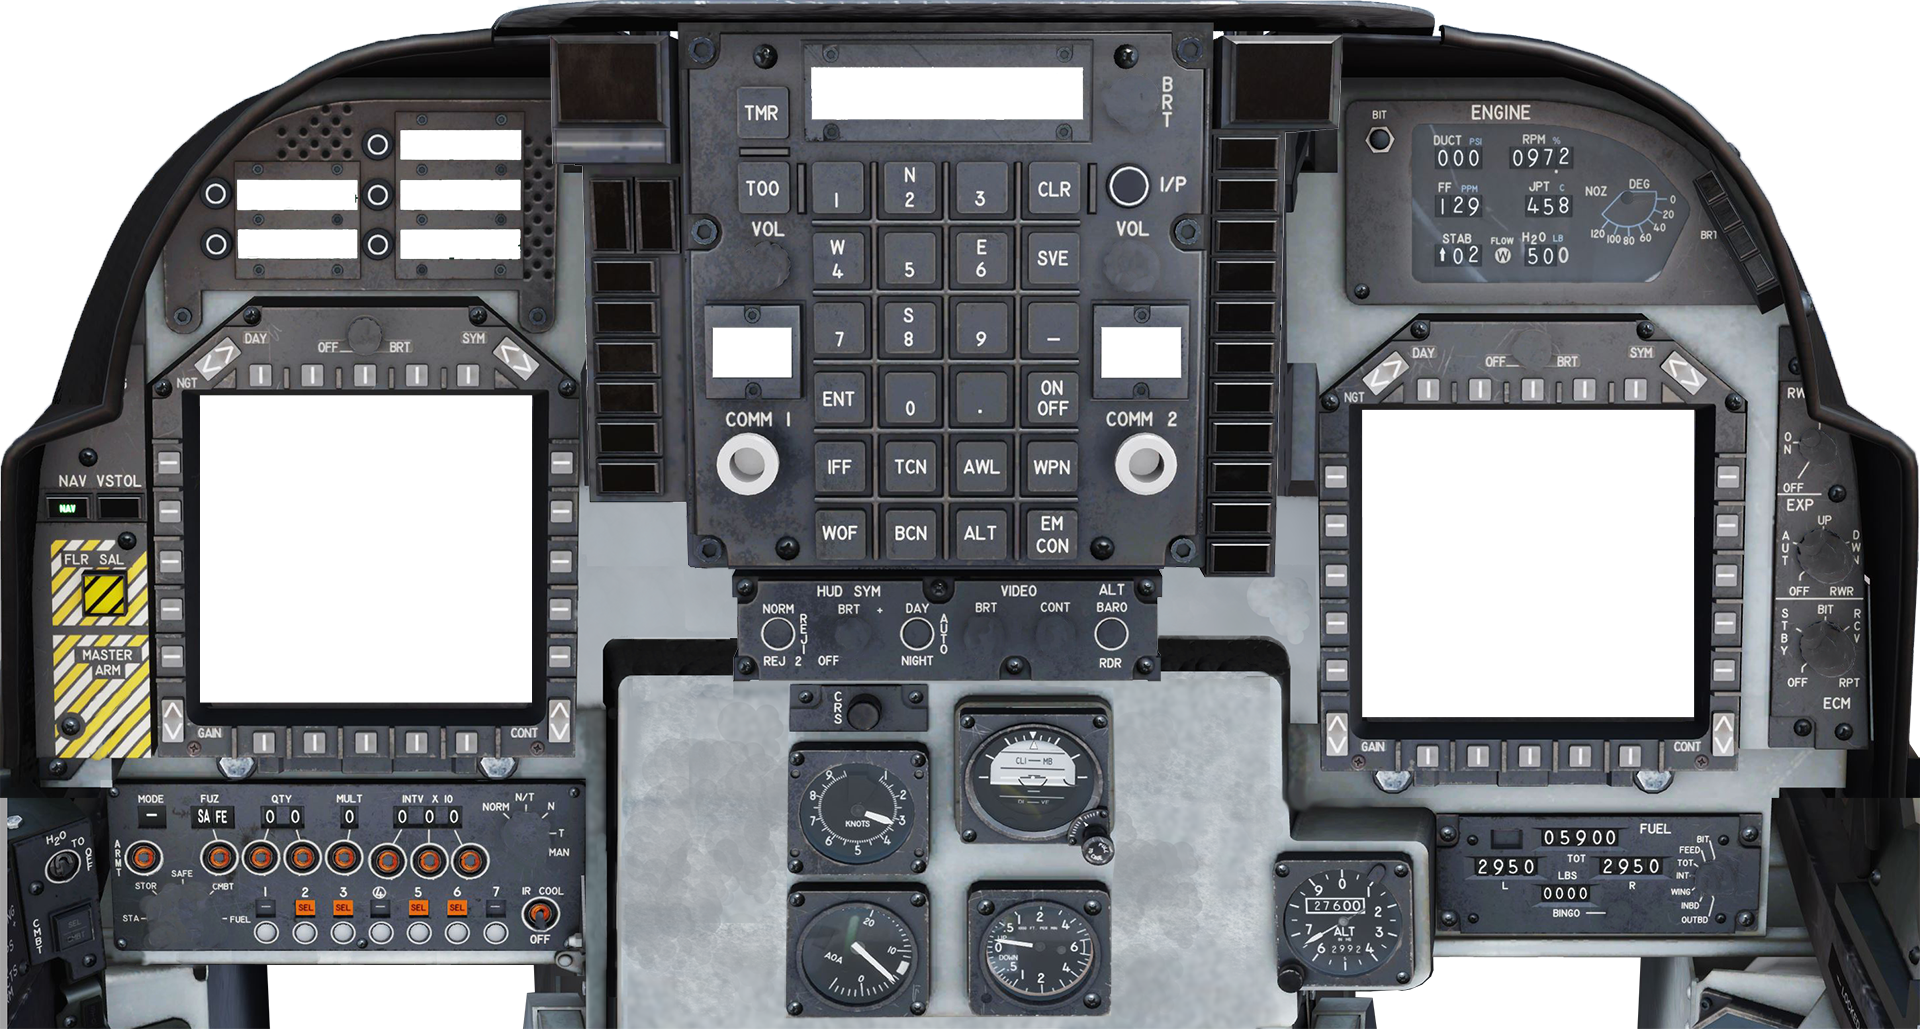
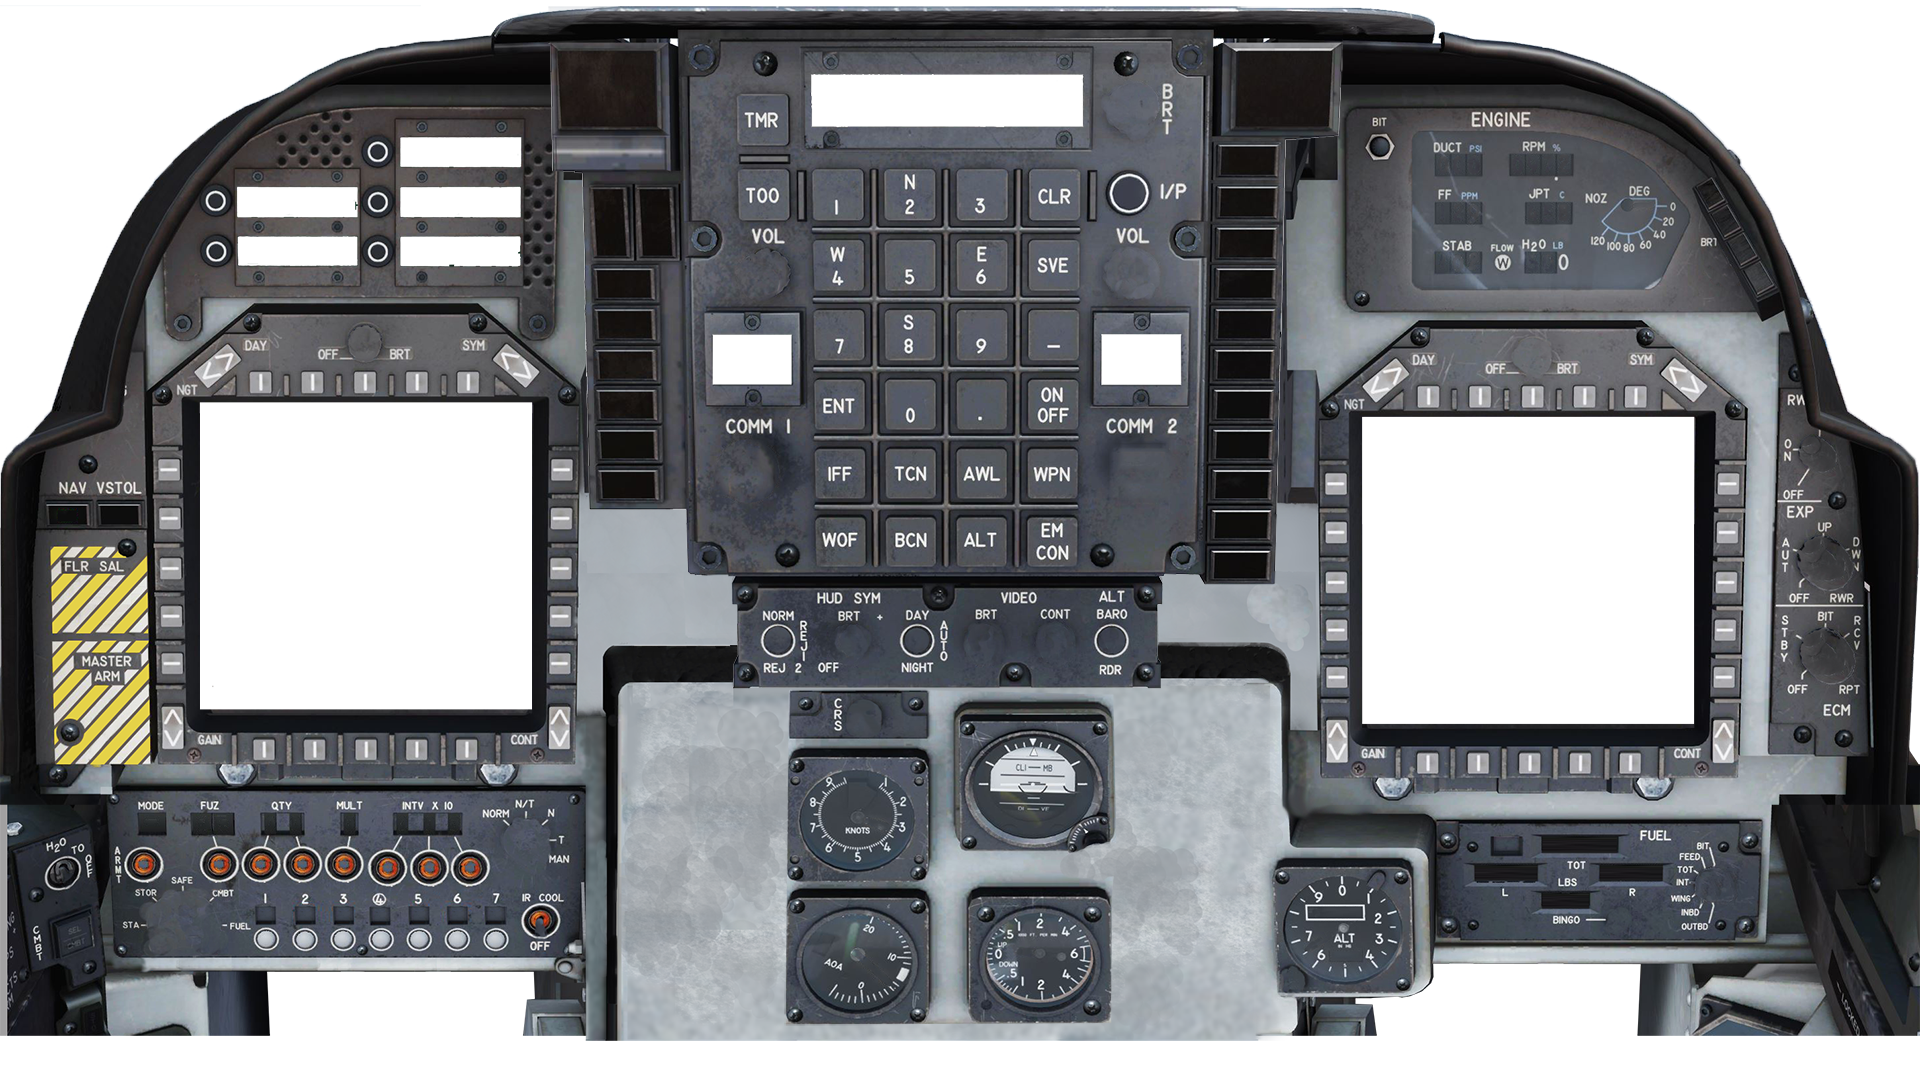
Further work on the front panel controls and knobs
Main flight controls with the exception of the ADI are complete,
although the altimeter looks like an A-10C.  Most of the front buttons
are implemented but not tested.

diff --git a/Helios/Interfaces/DCS/AV-8B/AV8BInterface.cs b/Helios/Interfaces/DCS/AV-8B/AV8BInterface.cs
@@ -182,6 +182,7 @@ namespace GadrocsWorkshop.Helios.Interfaces.DCS.AV8B
             AddFunction(new PushButton(this, MPCD_LEFT, "3217", "3217", "Left MFCD", "OSB18", "1", "0", "%1d"));
             AddFunction(new PushButton(this, MPCD_LEFT, "3218", "3218", "Left MFCD", "OSB19", "1", "0", "%1d"));
             AddFunction(new PushButton(this, MPCD_LEFT, "3219", "3219", "Left MFCD", "OSB20", "1", "0", "%1d"));
+            AddFunction(new Axis(this, MPCD_LEFT, "3194", "3194", 0.1d, 0d, 1d, "Left MFCD", "Off/Brightness Control"));
             #endregion
 
             #region Right MCFD
@@ -205,6 +206,8 @@ namespace GadrocsWorkshop.Helios.Interfaces.DCS.AV8B
             AddFunction(new PushButton(this, MPCD_RIGHT, "3241", "3241", "Right MFCD", "OSB18"));
             AddFunction(new PushButton(this, MPCD_RIGHT, "3242", "3242", "Right MFCD", "OSB19"));
             AddFunction(new PushButton(this, MPCD_RIGHT, "3243", "3243", "Right MFCD", "OSB20"));
+            AddFunction(new Axis(this, MPCD_RIGHT, "3195", "3195", 0.1d, 0d, 1d, "Right MFCD", "Off/Brightness Control"));
+
             #endregion
 
             #region UFC
@@ -239,9 +242,22 @@ namespace GadrocsWorkshop.Helios.Interfaces.DCS.AV8B
             AddFunction(new FlagValue(this, "196", "Caution/Warning", "Master Caution", "Master Caution indicator"));
             AddFunction(new PushButton(this, LTWCA, "3199", "3199", "Caution/Warning", "Master Warning Button"));
             AddFunction(new FlagValue(this, "197", "Caution/Warning", "Master Warning", "Master warning indicator"));
+            AddFunction(new Axis(this, UFCCONTROL, "3295", "3295", 0.1d, 0d, 1d, "UFC", "Display Brightness"));
+            AddFunction(new Axis(this, UFCCONTROL, "3298", "3298", 0.1d, 0d, 1d, "UFC", "Comm 1 Volume"));
+            AddFunction(new Axis(this, UFCCONTROL, "3299", "3299", 0.1d, 0d, 1d, "UFC", "Comm 2 Volume"));
+            AddFunction(new Axis(this, UFCCONTROL, "3300", "3300", 0.1d, 0d, 1d, "UFC", "Comm 1 Channel selector"));
+            AddFunction(new Axis(this, UFCCONTROL, "3301", "3301", 0.1d, 0d, 1d, "UFC", "Comm 2 Channel selector"));
+
             //       public IndicatorPushButton(BaseUDPInterface sourceInterface, string deviceId, string buttonId, string argId, string device, string name)
             //       public FlagValue(BaseUDPInterface sourceInterface, string id, string device, string name, string description)
             //       public PushButton(BaseUDPInterface sourceInterface, string deviceId, string buttonId, string argId, string device, string name)
+            AddFunction(Switch.CreateThreeWaySwitch(this, HUDCONTROL, "3288", "3288", "1", "Norm", "0", "Reject 1", "-1", "Reject 2", "HUD Control", "Declutter switch", "%1d"));
+            AddFunction(new Axis(this, HUDCONTROL, "3289", "3289", 0.1d, 0d, 1d, "HUD Control", "Off/Brightness control"));
+            AddFunction(Switch.CreateThreeWaySwitch(this, HUDCONTROL, "3290", "3290", "1", "Day", "0", "Auto", "-1", "Night", "HUD Control", "Display Mode switch", "%1d"));
+            AddFunction(new Axis(this, HUDCONTROL, "3291", "3291", 0.1d, 0d, 1d, "HUD Control", "Video Brightness"));
+            AddFunction(new Axis(this, HUDCONTROL, "3292", "3292", 0.1d, 0d, 1d, "HUD Control", "Video Contrast"));
+            AddFunction(Switch.CreateToggleSwitch(this, HUDCONTROL, "3293", "3293", "1", "Baro", "0", "Rdr", "HUD Control", "Altimeter Mode Switch", "%1d"));
+
             #endregion
 
             #region Master Modes
@@ -299,7 +315,7 @@ namespace GadrocsWorkshop.Helios.Interfaces.DCS.AV8B
 
             #region Fuel Quantity Indicator System
             AddFunction(new Axis(this, FQIS, "3380", "3380", 0.05d, 0.15d, 0.85d, "Fuel Quantity", "Bingo Fuel Set Knob"));
-            AddFunction(new Switch(this, FQIS, "3379", new SwitchPosition[] { new SwitchPosition("-0.99", "BIT", "3395"), new SwitchPosition("-0.66", "FEED", "3395"), new SwitchPosition("-0.33", "TOTAL", "3395"), new SwitchPosition("0.0", "INT", "3395"), new SwitchPosition("0.33", "WING", "3395"), new SwitchPosition("0.66", "INBD", "3395"), new SwitchPosition("0.99", "OUTBD", "3395") }, "Fuel Quantity", "Fuel Totaliser Selector", "%0.1f"));
+            AddFunction(new Switch(this, FQIS, "3379", new SwitchPosition[] { new SwitchPosition("0.99", "OUTBD", "3395"), new SwitchPosition( "0.66", "INBD", "3395"), new SwitchPosition("0.33", "WING", "3395"), new SwitchPosition("0.0", "INT", "3395"), new SwitchPosition("-0.33", "TOTAL", "3395"), new SwitchPosition("-0.66", "FEED", "3395"), new SwitchPosition("-0.99", "BIT", "3395") }, "Fuel Quantity", "Fuel Totaliser Selector", "%0.1f"));
 
             #endregion
 
@@ -376,15 +392,15 @@ namespace GadrocsWorkshop.Helios.Interfaces.DCS.AV8B
 
             #region Stores Management Controller
             AddFunction(Switch.CreateToggleSwitch(this, SMC, "3287", "3287", "1", "Armed", "0", "Safe", "Stores Management", "Master Arm Switch", "%1d"));
-            AddFunction(Switch.CreateThreeWaySwitch(this, SMC, "3396", "3396", "-1", "dn", "0", "Off", "1", "Up", "Stores Management", "Armament Mode control", "%1d"));
-            AddFunction(Switch.CreateThreeWaySwitch(this, SMC, "3397", "3397", "-1", "decrease", "0", "Off", "1", "Increase", "Stores Management", "Armament Fuzing control", "%1d"));
-            AddFunction(Switch.CreateThreeWaySwitch(this, SMC, "3398", "3398", "-1", "decrease", "0", "Off", "1", "Increase", "Stores Management", "Armament Quantity Tens", "%1d"));
-            AddFunction(Switch.CreateThreeWaySwitch(this, SMC, "3399", "3399", "-1", "decrease", "0", "Off", "1", "Increase", "Stores Management", "Armament Quantity Units", "%1d"));
-            AddFunction(Switch.CreateThreeWaySwitch(this, SMC, "3400", "3400", "-1", "decrease", "0", "Off", "1", "Increase", "Stores Management", "Armament Multiple Release", "%1d"));
-            AddFunction(Switch.CreateThreeWaySwitch(this, SMC, "3401", "3401", "-1", "decrease", "0", "Off", "1", "Increase", "Stores Management", "Armament Release interval hundreds", "%1d"));
-            AddFunction(Switch.CreateThreeWaySwitch(this, SMC, "3402", "3402", "-1", "decrease", "0", "Off", "1", "Increase", "Stores Management", "Armament Release interval tens", "%1d"));
-            AddFunction(Switch.CreateThreeWaySwitch(this, SMC, "3403", "3403", "-1", "decrease", "0", "Off", "1", "Increase", "Stores Management", "Armament Release interval units", "%1d"));
-            AddFunction(Switch.CreateToggleSwitch(this, SMC, "3420", "3420", "0", "Off", "1", "Cooling", "Stores Management", "IR Cool Switch", "%1d"));
+            AddFunction(Switch.CreateThreeWaySwitch(this, SMC, "3396", "3396", "1", "Up", "0", "Off", "-1", "Dn", "Stores Management", "Armament Mode control", "%1d"));
+            AddFunction(Switch.CreateThreeWaySwitch(this, SMC, "3397", "3397", "1", "Increase", "0", "Off", "-1", "decrease", "Stores Management", "Armament Fuzing control", "%1d"));
+            AddFunction(Switch.CreateThreeWaySwitch(this, SMC, "3398", "3398", "1", "Increase", "0", "Off", "-1", "decrease", "Stores Management", "Armament Quantity Tens", "%1d"));
+            AddFunction(Switch.CreateThreeWaySwitch(this, SMC, "3399", "3399", "1", "Increase", "0", "Off", "-1", "decrease", "Stores Management", "Armament Quantity Units", "%1d"));
+            AddFunction(Switch.CreateThreeWaySwitch(this, SMC, "3400", "3400", "1", "Increase", "0", "Off", "-1", "decrease", "Stores Management", "Armament Multiple Release", "%1d"));
+            AddFunction(Switch.CreateThreeWaySwitch(this, SMC, "3401", "3401", "1", "Increase", "0", "Off", "-1", "decrease", "Stores Management", "Armament Release interval hundreds", "%1d"));
+            AddFunction(Switch.CreateThreeWaySwitch(this, SMC, "3402", "3402", "1", "Increase", "0", "Off", "-1", "decrease", "Stores Management", "Armament Release interval tens", "%1d"));
+            AddFunction(Switch.CreateThreeWaySwitch(this, SMC, "3403", "3403", "1", "Increase", "0", "Off", "-1", "decrease", "Stores Management", "Armament Release interval units", "%1d"));
+            AddFunction(Switch.CreateToggleSwitch(this, SMC, "3420", "3420", "1", "Cooling", "0", "Off", "Stores Management", "IR Cool Switch", "%1d"));
             AddFunction(new PushButton(this, SMC, "3407", "3407", "Stores Management", "Select station 1"));
             AddFunction(new FlagValue(this, "406", "Stores Management", "Station 1 Selected", "Station 1 selected indicator"));
             AddFunction(new PushButton(this, SMC, "3409", "3409", "Stores Management", "Select station 2"));
@@ -400,9 +416,9 @@ namespace GadrocsWorkshop.Helios.Interfaces.DCS.AV8B
             AddFunction(new PushButton(this, SMC, "3419", "3419", "Stores Management", "Select station 7"));
             AddFunction(new FlagValue(this, "418", "Stores Management", "Station 7 Selected", "station 7 selected indicator"));
             AddFunction(new PushButton(this, SMC, "3286", "3286", "Stores Management", "Launch Flare Salvo"));
-            AddFunction(new Switch(this, SMC, "3404", new SwitchPosition[] { new SwitchPosition("-1.0", "STA", "3404"), new SwitchPosition("-0.5", "STOR", "3404"), new SwitchPosition("0.0", "SAFE", "3404"), new SwitchPosition("0.5", "CMBT", "3404"), new SwitchPosition("1.0", "FUEL", "3404") }, "Stores Management", "Jettison Mode Selector", "%0.1f"));
+            AddFunction(new Switch(this, SMC, "3404", new SwitchPosition[] { new SwitchPosition("1.0", "FUEL", "3404"), new SwitchPosition("0.5", "CMBT", "3404"), new SwitchPosition("0.0", "SAFE", "3404"), new SwitchPosition("-0.5", "STOR", "3404"),new SwitchPosition("-1.0", "STA", "3404") },  "Stores Management", "Jettison Mode Selector", "%0.1f"));
             AddFunction(new PushButton(this, SMC, "3405", "3405", "Stores Management", "Jettison Stores"));
-            AddFunction(new Switch(this, SMC, "3395", new SwitchPosition[] { new SwitchPosition("0.0", "Norm", "3395"), new SwitchPosition("0.33", "N/T", "3395"), new SwitchPosition("0.66", "N", "3395"), new SwitchPosition("1.0", "T", "3395") }, "Stores Management", "Manual Fuzing Release Control", "%0.1f"));
+            AddFunction(new Switch(this, SMC, "3395", new SwitchPosition[] { new SwitchPosition("1.0", "T", "3395"), new SwitchPosition("0.66", "N", "3395"), new SwitchPosition("0.33", "N/T", "3395"), new SwitchPosition("0.0", "Norm", "3395")}, "Stores Management", "Manual Fuzing Release Control", "%0.1f"));
 
             #endregion
 
